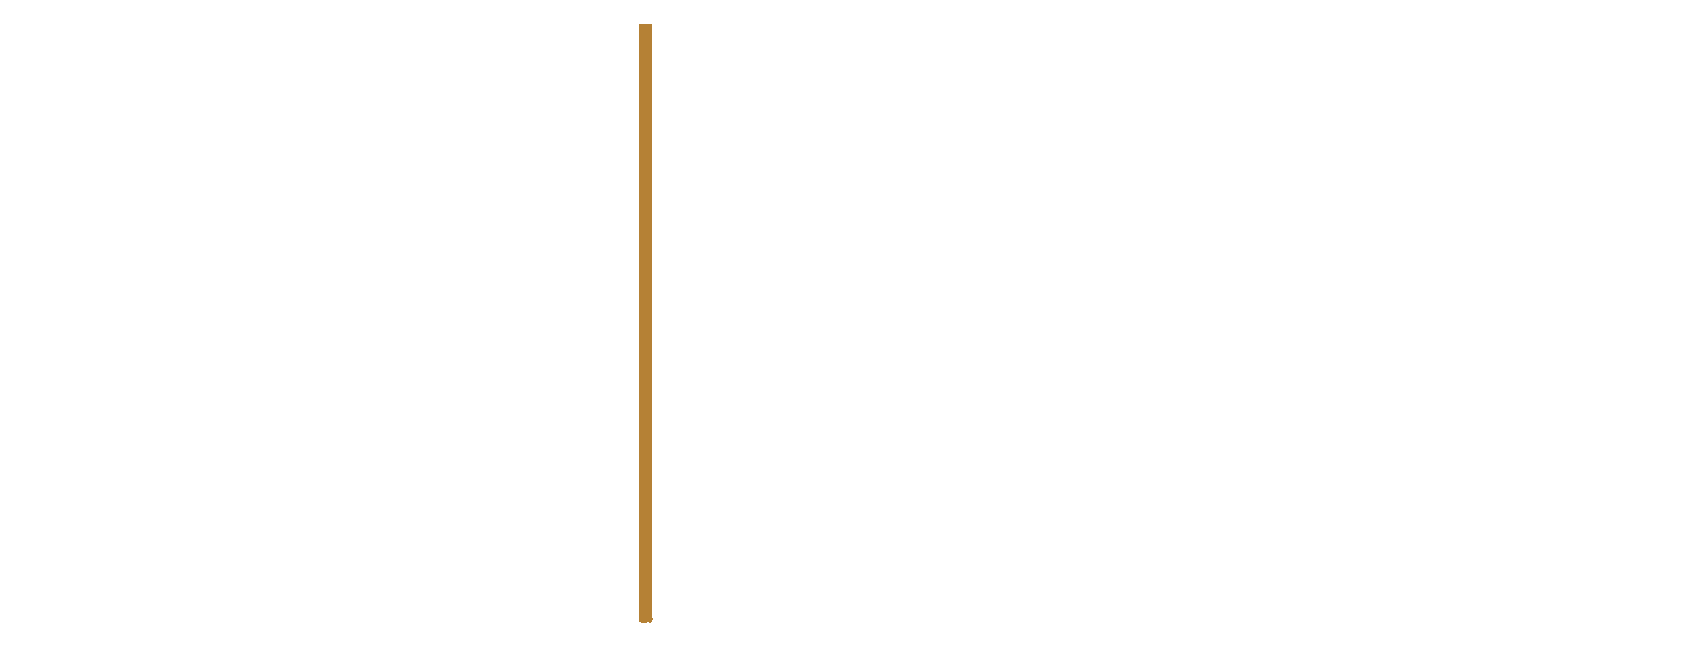
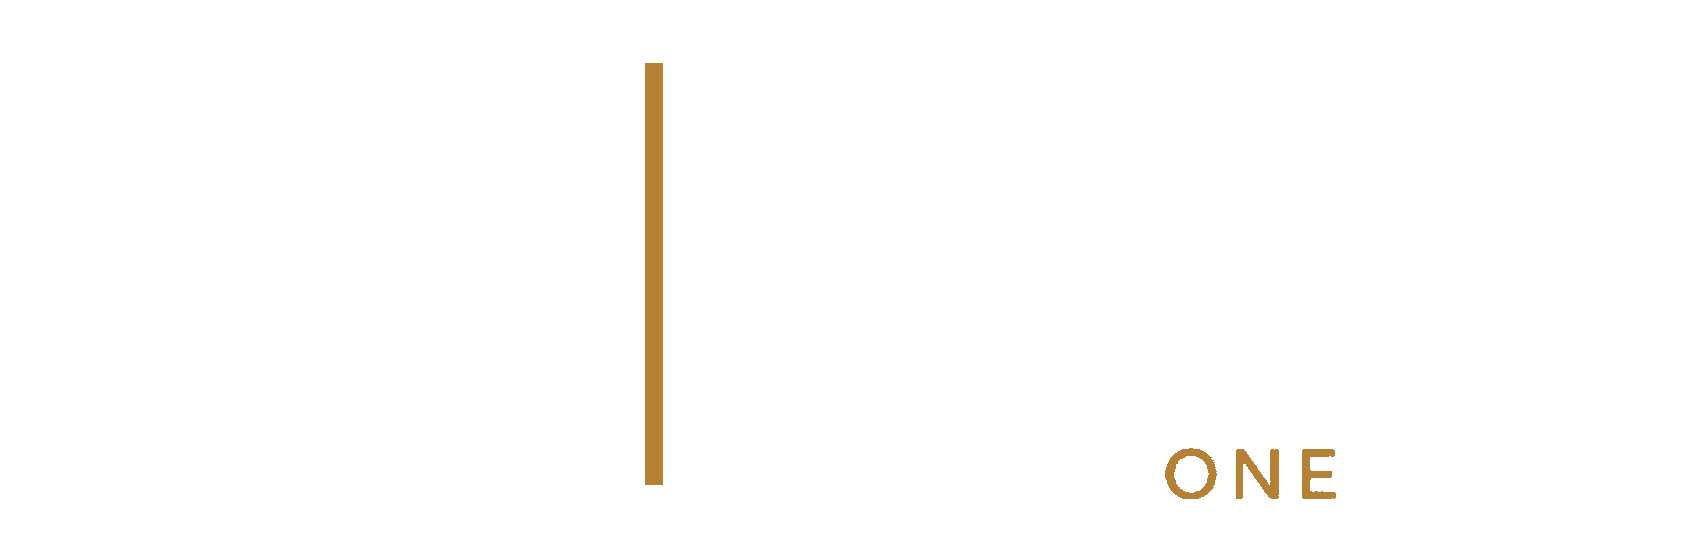
Ship Fav4 mark with hybrid-05 type and gold ONE as the live masthead.
Replace brand lockups, app icon, and favicon so the mark matches the masthead, and add a ship script plus frozen type source for clean regenerations.

Changed region(s): [[0.369, 0.0311, 0.3998, 0.9652], [0.6765, 0.8095, 0.7995, 0.9341]]

diff --git a/src/lib/brand.ts b/src/lib/brand.ts
@@ -4,14 +4,16 @@
  * Source of truth for all logo/wordmark usage in the app. To update branding,
  * replace the PNGs in `public/brand/` and update the dimensions below.
  *
- * Restore approved hybrid-05 lockup (frozen — no geometry experiments):
+ * Ship Fav4 mark + hybrid-05 type (gold ONE):
+ *   python scripts/ship-fav4-hybrid05-lockup.py
+ * Prior hybrid-05-only restore (legacy):
  *   python scripts/restore-approved-hybrid05.py
  *
  * Currently shipped (true PNG only — do not check in JPEG bytes with a .png name):
- * - lob-app-icon.png            — square nested-L mark, navy on white (1024×1024) — light UI / favicon source
- * - lob-app-icon-knockout.png   — white nested-L mark, transparent (1024×1024) — favicon tile
- * - lob-mark.svg                — vector source for the nested-L mark
- * - lob-lockup-knockout.png     — full logo white+gold on transparent (print / share)
+ * - lob-app-icon.png            — Fav4 O+L+B mark, navy on white (1024×1024) — light UI / favicon source
+ * - lob-app-icon-knockout.png   — white Fav4 mark, transparent (1024×1024) — favicon tile
+ * - lob-mark.svg                — vector source (may lag raster; prefer PNG mark)
+ * - lob-lockup-knockout.png     — full logo white+gold on transparent (masthead)
  * - lob-brand-lockup.png        — full logo mark | gold | LOB / LUMBER ONE BOARD (light)
  * - lob-dark-lockup.png         — same full logo on navy
  * - lob-mark-compact.png        — square mark (same as app icon)
@@ -20,7 +22,7 @@
  * - lob-brand-poster-vertical.png — vertical poster
  *
  * Favicon = mark only (`src/app/icon.png`).
- * Masthead = hybrid-05 full lockup knockout (mark | gold | LOB / LUMBER ONE BOARD).
+ * Masthead = Fav4 mark | gold rule | hybrid-05 LOB / LUMBER ONE BOARD (gold ONE).
  *
  * Design review copies live under `public/brand/catalog/` and `public/brand/final/`
  * (PNGs in `catalog/` are gitignored; promote chosen finals into `public/brand/`).
@@ -37,8 +39,8 @@ export const LOB_APP_ICON_KNOCKOUT_HEIGHT = 1024;
 
 /** Full logo (mark | gold rule | LOB / LUMBER ONE BOARD), white+gold on transparent. */
 export const LOB_LOCKUP_KNOCKOUT_SRC = "/brand/lob-lockup-knockout.png";
-export const LOB_LOCKUP_KNOCKOUT_WIDTH = 1696;
-export const LOB_LOCKUP_KNOCKOUT_HEIGHT = 647;
+export const LOB_LOCKUP_KNOCKOUT_WIDTH = 1691;
+export const LOB_LOCKUP_KNOCKOUT_HEIGHT = 546;
 
 /** Wide concept art — alternate marketing/share card (currently same as hero). */
 export const LOB_CONCEPT_PRIMARY_SRC = "/brand/lob-concept-primary.png";
@@ -57,8 +59,8 @@ export const LOB_BRAND_LOCKUP_HEIGHT = 720;
 
 /** Dark navy lockup (full logo) — print / dark chrome. */
 export const LOB_DARK_LOCKUP_SRC = "/brand/lob-dark-lockup.png";
-export const LOB_DARK_LOCKUP_WIDTH = 1696;
-export const LOB_DARK_LOCKUP_HEIGHT = 647;
+export const LOB_DARK_LOCKUP_WIDTH = 1710;
+export const LOB_DARK_LOCKUP_HEIGHT = 567;
 
 /** Dark navy wordmark only (“Lumber One Board”) — global top masthead. */
 export const LOB_DARK_WORDMARK_SRC = "/brand/lob-dark-wordmark.png";

diff --git a/src/components/lob-brand-masthead.tsx b/src/components/lob-brand-masthead.tsx
@@ -9,8 +9,8 @@ import {
 import { BRAND_PRODUCT_NAME } from "@/lib/brand-marketing";
 
 /**
- * Full-bleed navy masthead with the approved hybrid-05 lockup
- * (mark | gold rule | LOB / LUMBER ONE BOARD). High-res knockout PNG,
+ * Full-bleed navy masthead with the approved Fav4 + hybrid-05 lockup
+ * (mark | gold rule | LOB / LUMBER ONE BOARD, gold ONE). High-res knockout PNG,
  * height-driven so it stays sharp and centered in the rail.
  */
 export function LobBrandMasthead() {

diff --git a/scripts/ship-fav4-hybrid05-lockup.py b/scripts/ship-fav4-hybrid05-lockup.py
@@ -1,0 +1,232 @@
+"""
+Ship Favorite-4 mark + hybrid-05 type (gold ONE) into public/brand.
+
+Writes:
+  - lob-lockup-knockout.png  (masthead — white+gold on transparent)
+  - lob-dark-lockup.png      (same on navy)
+  - lob-brand-lockup.png     (navy+gold on white, light/print)
+  - lob-app-icon.png / knockout / mark-compact (Fav4 mark, keeps mark consistent)
+
+Does not commit. Run from repo root:
+  python scripts/ship-fav4-hybrid05-lockup.py
+"""
+from __future__ import annotations
+
+import importlib.util
+import shutil
+from datetime import datetime, timezone
+from pathlib import Path
+
+from PIL import Image, ImageDraw
+
+ROOT = Path(__file__).resolve().parents[1]
+BRAND = ROOT / "public" / "brand"
+APP = ROOT / "src" / "app"
+PREVIEW = (
+    ROOT
+    / ".tmp-previews"
+    / "logo-iters"
+    / "lob-block-v3"
+    / "olb-sketch"
+    / "build_pref_type_gold_one.py"
+)
+OLB = ROOT / ".tmp-previews" / "logo-iters" / "lob-block-v3" / "build_olb_from_sketch.py"
+
+NAVY = (0, 18, 51)
+WHITE = (255, 255, 255)
+GOLD = (181, 129, 53)
+CLEAR = (0, 0, 0, 0)
+
+
+def load_pref():
+    spec = importlib.util.spec_from_file_location("pref", PREVIEW)
+    mod = importlib.util.module_from_spec(spec)
+    assert spec.loader
+    spec.loader.exec_module(mod)
+    return mod
+
+
+def load_olb():
+    spec = importlib.util.spec_from_file_location("olb", OLB)
+    mod = importlib.util.module_from_spec(spec)
+    assert spec.loader
+    spec.loader.exec_module(mod)
+    return mod
+
+
+def dark_to_knockout(dark_rgb: Image.Image) -> Image.Image:
+    rgb = dark_rgb.convert("RGB")
+    out = Image.new("RGBA", rgb.size, CLEAR)
+    sp, op = rgb.load(), out.load()
+    for y in range(rgb.height):
+        for x in range(rgb.width):
+            r, g, b = sp[x, y]
+            if r > 200 and g > 200 and b > 200:
+                op[x, y] = (255, 255, 255, 255)
+            elif r > 140 and 80 < g < 170 and b < 100 and r > b + 30:
+                op[x, y] = (*GOLD, 255)
+    bbox = out.getbbox()
+    if not bbox:
+        return out
+    trimmed = out.crop(bbox)
+    pad = 24
+    canvas = Image.new(
+        "RGBA", (trimmed.width + pad * 2, trimmed.height + pad * 2), CLEAR
+    )
+    canvas.alpha_composite(trimmed, (pad, pad))
+    return canvas
+
+
+def dark_to_light(dark_rgb: Image.Image, size: tuple[int, int] = (1280, 720)) -> Image.Image:
+    """Navy + gold ink on white field, letterboxed into size."""
+    rgb = dark_rgb.convert("RGB")
+    ko = dark_to_knockout(rgb)
+    # Recolor white → navy for light field
+    light_ink = Image.new("RGBA", ko.size, CLEAR)
+    kp, lp = ko.load(), light_ink.load()
+    for y in range(ko.height):
+        for x in range(ko.width):
+            r, g, b, a = kp[x, y]
+            if a < 10:
+                continue
+            if r > 200 and g > 200 and b > 200:
+                lp[x, y] = (*NAVY, a)
+            else:
+                lp[x, y] = (r, g, b, a)
+
+    canvas = Image.new("RGB", size, WHITE)
+    # Fit lockup into ~78% of frame
+    max_w, max_h = int(size[0] * 0.88), int(size[1] * 0.62)
+    scale = min(max_w / light_ink.width, max_h / light_ink.height)
+    nw = max(1, int(light_ink.width * scale))
+    nh = max(1, int(light_ink.height * scale))
+    fitted = light_ink.resize((nw, nh), Image.Resampling.LANCZOS)
+    canvas.paste(
+        fitted,
+        ((size[0] - nw) // 2, (size[1] - nh) // 2),
+        fitted,
+    )
+    return canvas
+
+
+def fav4_mark_pair(olb, size: int = 1024) -> tuple[Image.Image, Image.Image]:
+    w = olb.WEIGHTS["thick"]
+    mark = olb.draw_structure_a(
+        size,
+        T=w["T"],
+        G=w["G"],
+        pad=w["pad"],
+        gap=olb.NAVY,
+        o_scale=0.75,
+        g_outer_scale=1.0,
+        o_radius=2.8,
+        o_radius_inner=1.1,
+        b_right_radius=0.9,
+    ).convert("RGB")
+    # Light: navy ink on white
+    light = Image.new("RGB", (size, size), WHITE)
+    mp = mark.load()
+    lp = light.load()
+    for y in range(size):
+        for x in range(size):
+            r, g, b = mp[x, y]
+            if r > 200 and g > 200 and b > 200:
+                lp[x, y] = NAVY
+    # Knockout: white on transparent
+    ko = Image.new("RGBA", (size, size), CLEAR)
+    kp = ko.load()
+    for y in range(size):
+        for x in range(size):
+            r, g, b = mp[x, y]
+            if r > 200 and g > 200 and b > 200:
+                kp[x, y] = (255, 255, 255, 255)
+    return light, ko
+
+
+def backup(path: Path, bak_dir: Path) -> None:
+    if path.exists():
+        shutil.copy2(path, bak_dir / path.name)
+
+
+def main() -> None:
+    pref = load_pref()
+    olb = load_olb()
+
+    bak = (
+        BRAND
+        / "catalog"
+        / f"pre-fav4-ship-{datetime.now(timezone.utc).strftime('%Y%m%d-%H%M%S')}"
+    )
+    bak.mkdir(parents=True, exist_ok=True)
+
+    # Frozen hybrid-05 type plate (pre-Fav4). Fallback: current dark lockup.
+    type_source = BRAND / "sources" / "hybrid05-type-source-dark.png"
+    if not type_source.exists():
+        type_source = BRAND / "lob-dark-lockup.png"
+    dark_src = Image.open(type_source)
+    type_rgba = pref.extract_type_rgba(dark_src)
+
+    w = olb.WEIGHTS["thick"]
+
+    def draw_mark(size: int) -> Image.Image:
+        return olb.draw_structure_a(
+            size,
+            T=w["T"],
+            G=w["G"],
+            pad=w["pad"],
+            gap=olb.NAVY,
+            o_scale=0.75,
+            g_outer_scale=1.0,
+            o_radius=2.8,
+            o_radius_inner=1.1,
+            b_right_radius=0.9,
+        )
+
+    lock = pref.compose_lockup(
+        draw_mark, type_rgba, mark_size=560, type_to_mark_ink=0.90
+    )
+    dark = lock.convert("RGB")
+    knockout = dark_to_knockout(dark)
+    light = dark_to_light(dark, (1280, 720))
+    mark_light, mark_ko = fav4_mark_pair(olb, 1024)
+
+    targets = {
+        BRAND / "lob-dark-lockup.png": dark,
+        BRAND / "lob-lockup-knockout.png": knockout,
+        BRAND / "lob-brand-lockup.png": light,
+        BRAND / "lob-app-icon.png": mark_light,
+        BRAND / "lob-app-icon-knockout.png": mark_ko,
+        BRAND / "lob-mark-compact.png": mark_light,
+    }
+
+    for path, im in targets.items():
+        backup(path, bak)
+        im.save(path, optimize=True)
+        print(f"wrote {path.relative_to(ROOT)} {im.size} {im.mode}")
+
+    # Favicon from knockout mark on navy (match existing app/icon.png pattern)
+    icon_path = APP / "icon.png"
+    if icon_path.exists():
+        backup(icon_path, bak)
+    tile = 512
+    fav = Image.new("RGB", (tile, tile), NAVY)
+    mk = mark_ko.resize((tile, tile), Image.Resampling.LANCZOS)
+    fav.paste(mk, (0, 0), mk)
+    # slight inset so mark isn't edge-clipped
+    inset = int(tile * 0.08)
+    inner = tile - inset * 2
+    fav2 = Image.new("RGB", (tile, tile), NAVY)
+    mk2 = mark_ko.resize((inner, inner), Image.Resampling.LANCZOS)
+    fav2.paste(mk2, (inset, inset), mk2)
+    fav2.save(icon_path, optimize=True)
+    print(f"wrote {icon_path.relative_to(ROOT)} {fav2.size}")
+
+    print("backup ->", bak.relative_to(ROOT))
+    print("Update brand.ts widths/heights to match:")
+    print(f"  knockout {knockout.size}")
+    print(f"  dark     {dark.size}")
+    print(f"  light    {light.size}")
+
+
+if __name__ == "__main__":
+    main()
